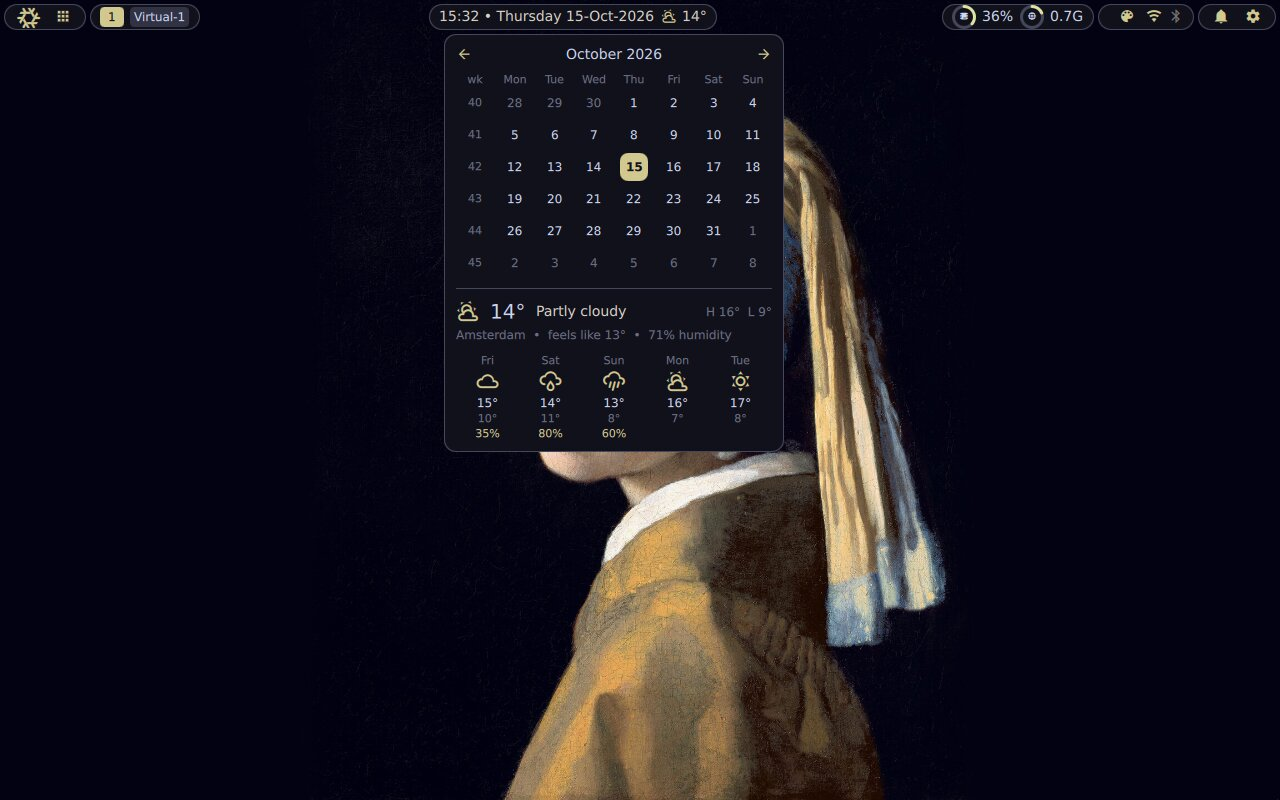
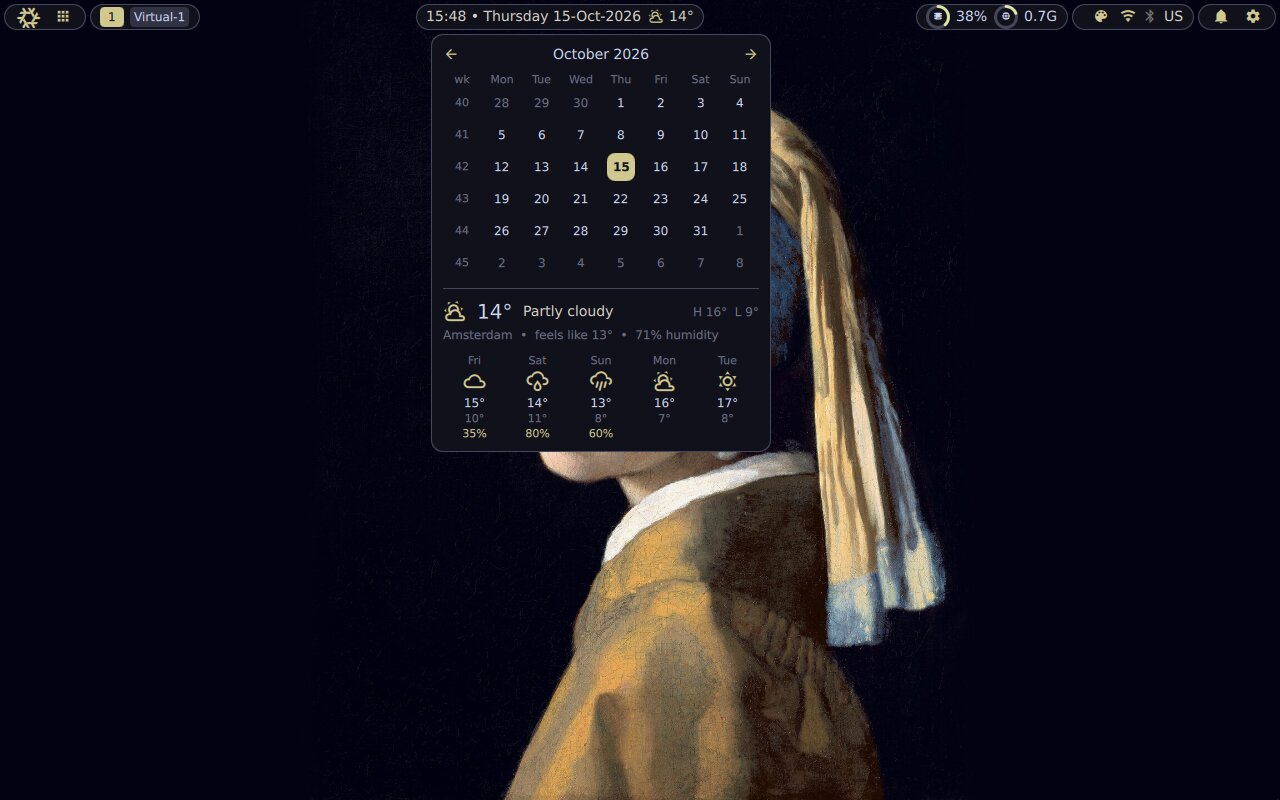
Show the keyboard layout in the bar, and switch it from there
A new item shows the layout Hyprland is using (US, NL, or US intl for a variant). A click goes to
the next layout, scrolling goes forward or back, and sol-shell ipc call keyboard next|previous|current
does the same from a keybind. The layouts, their variants and the number in use come from hyprctl
devices -j; they are read again when Hyprland says the layout changed or its configuration was
read again. Those events come once for every keyboard, so they are bunched together, and a question
that is still being answered when another is due is asked again afterwards. Switching uses
hyprctl switchxkblayout all, which is the same in a Lua configuration and in hyprland.conf.

The item is always shown, also with one layout (then a click does nothing): hiding it would hide it
from everyone with a single layout, who could not tell it was there.

The new item moves the right side of the bar, so the screenshot script's clicks on the CPU ring,
the Wi-Fi icon and the three-dots menu move with it, and the README pictures are taken again.

diff --git a/singletons/KeyboardLayoutService.qml b/singletons/KeyboardLayoutService.qml
@@ -1,0 +1,136 @@
+pragma Singleton
+
+import Quickshell
+import Quickshell.Io
+import Quickshell.Hyprland
+import QtQuick
+
+// The keyboard layout Hyprland is using ("us", "nl"), and a way to switch to the next one. The
+// layouts are the ones in Hyprland's own configuration (`kb_layout = "us,nl"`); with one layout
+// there is nothing to switch to, and clicking does nothing.
+//
+// How it knows: `hyprctl devices -j` lists the keyboards with their layouts (a comma separated
+// list), the variants that go with them and the number of the one in use. That is asked again
+// whenever Hyprland says the layout changed (the `activelayout` event) or its configuration was
+// read again. Switching asks Hyprland to switch every keyboard, so they stay the same.
+//
+// It can be used from a keybind too:
+//
+//     sol-shell ipc call keyboard next        (or `previous`)
+//     sol-shell ipc call keyboard current     prints for example "US"
+Singleton {
+    id: root
+
+    // [{ code: "us", variant: "" }, { code: "nl", variant: "" }, ...], in Hyprland's order
+    property var layouts: []
+    // the number of the one in use, in `layouts`
+    property int index: 0
+
+    readonly property int count: layouts.length
+    readonly property var current: layouts[index] ?? null
+    // what the bar shows: "US", or "US intl" for a variant
+    readonly property string label: current ? current.code.toUpperCase() + (current.variant !== "" ? " " + current.variant : "") : ""
+
+    // Ask Hyprland. The main keyboard is the one that counts: all keyboards are kept the same.
+    //
+    // Hyprland says "the layout changed" once for every keyboard it switched, and the answer is
+    // only right once it has switched them all. So the events are bunched together: the question
+    // is asked a moment after the last one. A question that is still being answered when another
+    // is due is not dropped: it is asked again straight after.
+    function refresh(): void {
+        settle.restart();
+    }
+
+    property bool askAgain: false
+
+    Timer {
+        id: settle
+        interval: 60
+        onTriggered: {
+            if (query.running)
+                root.askAgain = true;
+            else
+                query.running = true;
+        }
+    }
+
+    function next(): void {
+        switchTo("next");
+    }
+
+    function previous(): void {
+        switchTo("prev");
+    }
+
+    function switchTo(which: string): void {
+        if (count < 2)
+            return;
+        // `hyprctl switchxkblayout` is a command of its own, not a dispatcher, so it is the same
+        // in a Lua configuration and in the older hyprland.conf
+        Quickshell.execDetached(["hyprctl", "switchxkblayout", "all", which]);
+    }
+
+    Component.onCompleted: query.running = true
+
+    // Hyprland says "activelayout>>keyboard,Layout name" when a layout changes, and
+    // "configreloaded" after the configuration was read again (a new `kb_layout`).
+    Connections {
+        target: Hyprland
+
+        function onRawEvent(event: var): void {
+            if (event.name === "activelayout" || event.name === "configreloaded")
+                root.refresh();
+        }
+    }
+
+    Process {
+        id: query
+
+        command: ["hyprctl", "devices", "-j"]
+        stdout: StdioCollector {
+            onStreamFinished: {
+                root.parse(text);
+                if (root.askAgain) {
+                    root.askAgain = false;
+                    query.running = true;
+                }
+            }
+        }
+    }
+
+    function parse(json: string): void {
+        let keyboards = [];
+        try {
+            keyboards = JSON.parse(json).keyboards ?? [];
+        } catch (e) {
+            console.warn("sol-shell: cannot read the keyboards from hyprctl (the layout is not shown):", e);
+            return;
+        }
+        const main = keyboards.find(k => k.main) ?? keyboards[0];
+        if (!main)
+            return;
+        const codes = main.layout.split(",");
+        const variants = (main.variant ?? "").split(",");
+        layouts = codes.map((code, i) => ({
+                    code: code.trim(),
+                    variant: (variants[i] ?? "").trim()
+                }));
+        index = Math.max(0, Math.min(codes.length - 1, main.active_layout_index ?? 0));
+    }
+
+    IpcHandler {
+        target: "keyboard"
+
+        function next(): void {
+            root.next();
+        }
+
+        function previous(): void {
+            root.previous();
+        }
+
+        function current(): string {
+            return root.label;
+        }
+    }
+}

diff --git a/statusbar/components/KeyboardLayout.qml b/statusbar/components/KeyboardLayout.qml
@@ -1,0 +1,36 @@
+import QtQuick
+import "../../singletons"
+
+// The keyboard layout in use ("US", "NL"). Click it for the next layout, scroll over it to go
+// forward or back. With one layout there is nothing to switch to.
+Item {
+    id: root
+
+    implicitWidth: text.implicitWidth
+    implicitHeight: 26
+
+    Text {
+        id: text
+        anchors.verticalCenter: parent.verticalCenter
+        text: KeyboardLayoutService.label
+        color: mouse.containsMouse ? Theme.accentHover : Theme.secondaryText
+        font.family: Fonts.bodyFontFamily
+        font.pixelSize: Fonts.bodyMedium
+        font.weight: Font.Medium
+    }
+
+    MouseArea {
+        id: mouse
+        anchors.fill: parent
+        hoverEnabled: true
+        // nothing to switch to with one layout: the pointer says so by staying an arrow
+        cursorShape: KeyboardLayoutService.count > 1 ? Qt.PointingHandCursor : Qt.ArrowCursor
+        onClicked: KeyboardLayoutService.next()
+        onWheel: wheel => {
+            if (wheel.angleDelta.y > 0)
+                KeyboardLayoutService.previous();
+            else
+                KeyboardLayoutService.next();
+        }
+    }
+}

diff --git a/singletons/BarStyle.qml b/singletons/BarStyle.qml
@@ -34,7 +34,7 @@ Singleton {
 
     // The atoms (items of the bar) a style can list. BarRenderer builds one of each; it
     // says so in the log if it lacks one named here.
-    readonly property var atomNames: ["power", "workspaces", "media", "volume", "clock", "weather", "cpu", "memory", "colorPicker", "wifi", "bluetooth", "bell", "settings", "quickSettings", "launcher"]
+    readonly property var atomNames: ["power", "workspaces", "media", "volume", "clock", "weather", "cpu", "memory", "colorPicker", "wifi", "bluetooth", "bell", "settings", "quickSettings", "launcher", "keyboard"]
     // the one every style has to include: it is how you get to the settings
     readonly property string requiredAtom: "settings"
 
@@ -42,6 +42,7 @@ Singleton {
     readonly property var atomLabels: ({
             power: "Power menu",
             launcher: "Launcher",
+            keyboard: "Keyboard layout",
             workspaces: "Workspaces",
             media: "Media",
             volume: "Volume",

diff --git a/statusbar/styles/IslandsStyle.qml b/statusbar/styles/IslandsStyle.qml
@@ -43,7 +43,7 @@ QtObject {
                         height: 26
                     }, "launcher"], ["workspaces"]],
             center: [["media"], ["clock", "weather"]],
-            right: [["cpu", "memory"], ["volume", "colorPicker", "wifi", "bluetooth"], ["bell", "settings"]]
+            right: [["cpu", "memory"], ["volume", "colorPicker", "wifi", "bluetooth", "keyboard"], ["bell", "settings"]]
         })
 
     // compact: one icon (with a menu) for the volume ring, color picker, wifi and bluetooth,
@@ -65,6 +65,6 @@ QtObject {
                             compact: true
                         }
                     }, "weather"]],
-            right: [["cpu", "memory"], ["quickSettings", "bell", "settings"]]
+            right: [["cpu", "memory"], ["quickSettings", "keyboard", "bell", "settings"]]
         })
 }

diff --git a/statusbar/styles/MinimalStyle.qml b/statusbar/styles/MinimalStyle.qml
@@ -75,6 +75,9 @@ QtObject {
                     atom: "bluetooth",
                     gap: 8
                 }, {
+                    atom: "keyboard",
+                    gap: 12
+                }, {
                     atom: "bell",
                     gap: 12
                 }, "settings"],
@@ -103,6 +106,9 @@ QtObject {
             right: ["cpu", "memory", {
                     atom: "quickSettings",
                     gap: 20
+                }, {
+                    atom: "keyboard",
+                    gap: 12
                 }, {
                     atom: "bell",
                     gap: 12

diff --git a/shell.qml b/shell.qml
@@ -13,7 +13,11 @@ ShellRoot {
     // Singletons are only built when something first uses them. The launcher's command for a
     // keybind (`sol-shell ipc call launcher toggle`) has to be there whether or not the button
     // is in the bar, and before anyone has clicked it, so it is used here.
-    Component.onCompleted: LauncherService.command
+    // The keyboard layout's commands for a keybind need the same.
+    Component.onCompleted: {
+        LauncherService.command;
+        KeyboardLayoutService.count;
+    }
 
     // one wallpaper per monitor
     //

diff --git a/statusbar/BarRenderer.qml b/statusbar/BarRenderer.qml
@@ -37,6 +37,7 @@ Item {
             wifi: wifiAtom,
             bluetooth: bluetoothAtom,
             bell: bellAtom,
+            keyboard: keyboardAtom,
             settings: settingsAtom,
             quickSettings: quickSettingsAtom
         })
@@ -92,6 +93,10 @@ Item {
     Component {
         id: bluetoothAtom
         Bluetooth {}
+    }
+    Component {
+        id: keyboardAtom
+        KeyboardLayout {}
     }
     Component {
         id: bellAtom

diff --git a/TODO.md b/TODO.md
@@ -26,9 +26,11 @@ Done: the settings window has a **Bar items** section with a chip per item of th
 - [x] **Launcher button**: opens wofi (installed; the shell already themes it). A second click
       closes it. Sits next to the power button. The command is `launcherCommand` in `settings.json`
       and `sol-shell ipc call launcher toggle` does the same for a keybind.
-- [ ] **Keyboard layout**: shows the active layout (`us`, `nl`) and switches on click. Read it from
-      Hyprland (`hyprctl devices -j`, and the `activelayout` event for changes); switch with
-      `hyprctl switchxkblayout`. Hide it when there is only one layout.
+- [x] **Keyboard layout**: shows the active layout (`US`, `NL`) and switches on click (and on
+      scroll). Read from `hyprctl devices -j` (the layouts, variants and the number in use), kept up
+      to date by Hyprland's `activelayout` and `configreloaded` events; switched with
+      `hyprctl switchxkblayout all next`. Decided: it is always shown, not hidden for one layout
+      (this machine has only `us`, so it would never appear). Also `sol-shell ipc call keyboard ...`.
 - [ ] **Night light**: a toggle for `hyprsunset` (installed). Easiest is for the shell to start and
       stop it itself; the temperature (about 4000 K) can be a setting later. Fits the compact menu
       as a row, or the bar as an icon.

diff --git a/README.md b/README.md
@@ -16,6 +16,9 @@ What you get, on every monitor:
     second click to confirm)
   - a **launcher button** next to the power menu: opens the application launcher (Wofi, in the
     theme's colors) and closes it again on the next click
+  - the **keyboard layout** (`US`, `NL`, ...): click it for the next layout, scroll over it to go
+    forward or back. The layouts are the ones in your Hyprland configuration
+    (`kb_layout = "us,nl"`); with a single layout it just shows that one
   - a gear that opens the settings window, to pick a **theme** and a **wallpaper**
   - Hyprland workspaces
   - media controls for whatever is playing (title, progress bar, previous,
@@ -336,6 +339,9 @@ and shows "inactive" while the popup is closed):
 ```bash
 sol-shell ipc call notifications toggleDoNotDisturb
 ```
+
+The keyboard layout has commands for a keybind too: `sol-shell ipc call keyboard next` (or
+`previous`) switches every keyboard, and `call keyboard current` prints the layout in use.
 
 The color picker has a command too, for a keybind: `sol-shell ipc call picker pick` starts
 the eyedropper (the popup opens on the monitor you are using, with the color in its field),
